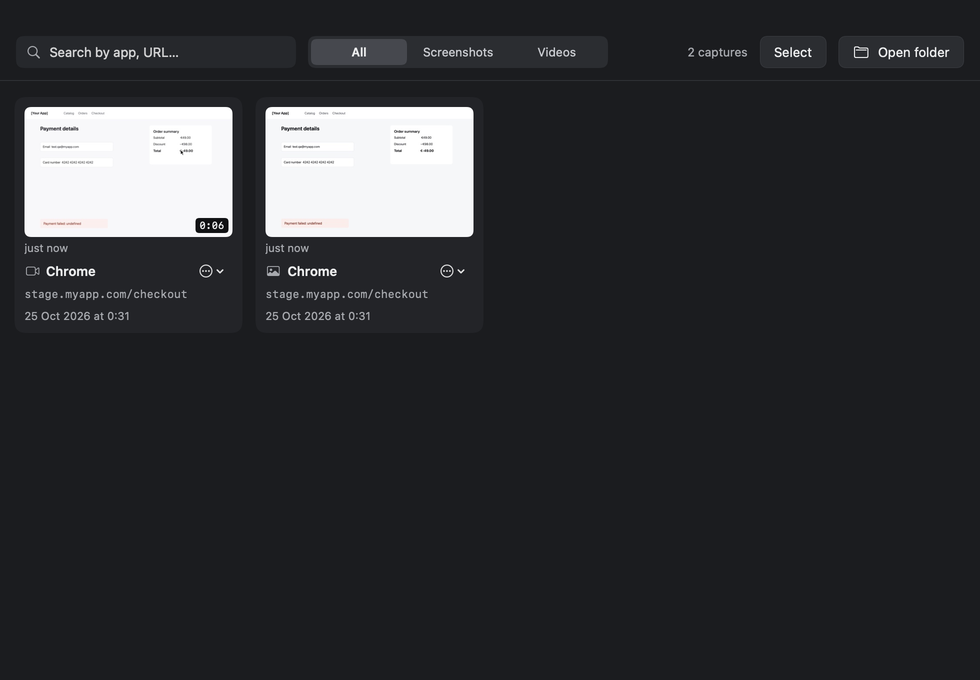
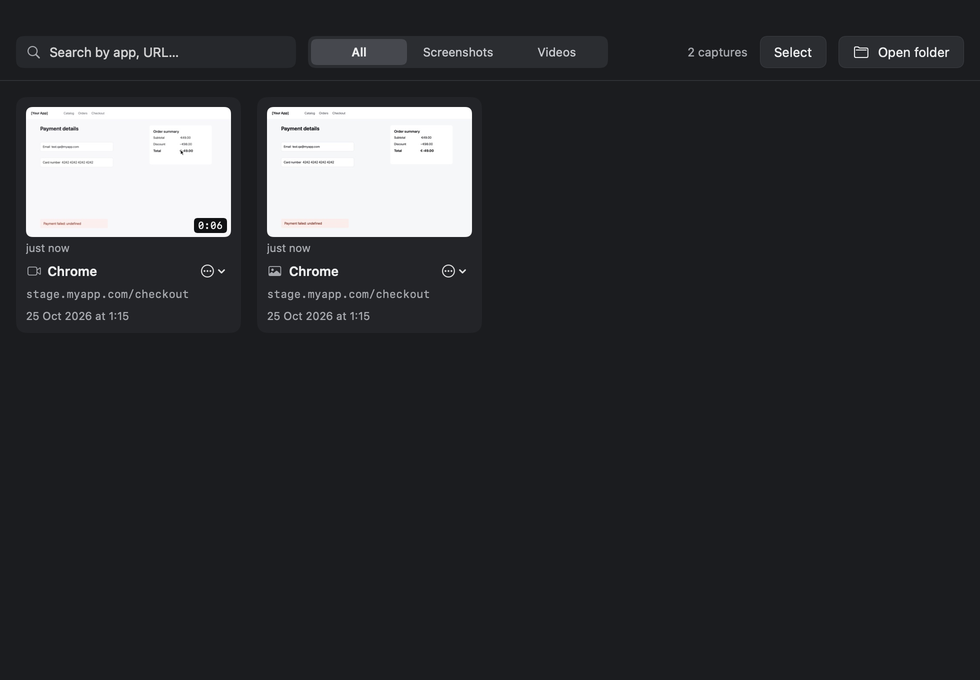
Tidy menu panel and settings; README on speed and clipboard
- Recent thumbnails stay inside their cells (wide captures pushed the grid
  past the panel's edge, cutting labels)
- The header drops the tagline while the update badge needs the room
- "Keep all displays" describes the per-display clips
- README: clipboard copy, frame rates, resource use

Changed region(s): [[0.2755, 0.3397, 0.4286, 0.4941], [0.0306, 0.3397, 0.1837, 0.4941], [0.1837, 0.3088, 0.2449, 0.3397]]

diff --git a/Sources/Bugbear/MenuBar/MenuBarView.swift b/Sources/Bugbear/MenuBar/MenuBarView.swift
@@ -124,9 +124,13 @@ struct MenuBarView: View {
                 .foregroundStyle(Theme.text)
             VStack(alignment: .leading, spacing: 1) {
                 Text("Bugbear").font(.system(size: 14, weight: .bold))
-                Text("Catch the bug that already happened")
-                    .font(.system(size: 11))
-                    .foregroundStyle(Theme.textSecondary)
+                // The update badge needs the room; the tagline comes back once updated.
+                if !Updater.shared.hasUpdate {
+                    Text("Catch the bug that already happened")
+                        .font(.system(size: 11))
+                        .foregroundStyle(Theme.textSecondary)
+                        .lineLimit(1)
+                }
             }
             Spacer()
             UpdateBadge()
@@ -695,11 +699,16 @@ struct CaptureThumbnail: View {
         VStack(alignment: .leading, spacing: 4) {
             ZStack(alignment: .bottomTrailing) {
                 if let image = app.store.thumbnail(for: capture) {
-                    Image(nsImage: image)
-                        .resizable()
-                        .aspectRatio(contentMode: .fill)
+                    // The cell sets the size and the picture fills it: an image sized by itself
+                    // made wide captures (two displays) push the grid past the panel's edge.
+                    Color.clear
                         .frame(maxWidth: .infinity)
                         .frame(height: height)
+                        .overlay {
+                            Image(nsImage: image)
+                                .resizable()
+                                .aspectRatio(contentMode: .fill)
+                        }
                         .clipped()
                 } else {
                     Rectangle().fill(Color(hex: 0x2E3136)).frame(height: height)

diff --git a/Sources/Bugbear/Settings/SettingsView.swift b/Sources/Bugbear/Settings/SettingsView.swift
@@ -47,7 +47,7 @@ struct SettingsView: View {
                         Text("1440p").tag(1440)
                         Text("Native").tag(0)
                     }
-                    Toggle("Record all displays (side by side)", isOn: $settings.captureAllDisplays)
+                    Toggle("Keep all displays (pick one or all side by side in the editor)", isOn: $settings.captureAllDisplays)
                     Toggle("Show the mouse pointer", isOn: $settings.showsCursor)
                     Toggle("Start the buffer when the app opens", isOn: $settings.startBufferOnLaunch)
                     if needsRestart {

diff --git a/Sources/Bugbear/Support/Updater.swift b/Sources/Bugbear/Support/Updater.swift
@@ -10,6 +10,11 @@ import BugbearCore
 final class Updater {
     static let shared = Updater()
 
+    var hasUpdate: Bool {
+        if case .available = state { return true }
+        return false
+    }
+
     enum State: Equatable {
         case idle
         case checking

diff --git a/README.md b/README.md
@@ -100,6 +100,9 @@ A bug you could not reproduce is already recorded: press `⌥⇧1` and it opens 
 The buffer is optional: choose it in the first-start guide, pause it from the menu bar, or turn it off in
 Settings → Buffer.
 
+- Light on the Mac: the buffer records at 15 fps (recordings switch to 30 fps without losing what the
+  buffer holds) and captures straight in the video encoder's format. With two displays the app uses
+  about 70 MB of memory and a few percent of one CPU core; saving 30 seconds takes about 0.1 s.
 - System audio and microphone are optional.
 - Clicks and shortcut keys are recorded alongside, so the editor can show them on the video.
   Plain typing is never stored as text; it shows up as "typing…".
@@ -160,6 +163,8 @@ all displays when more than one is connected.
 ### Screenshots and the screenshot editor
 
 - `⌥⇧4` area, `⌥⇧5` window, or all displays stitched into one image.
+- A new screenshot is on the clipboard right away, ready for `⌘V` in a chat or a ticket, and the
+  editor opens in about half a second. Settings → Screenshots turns the copying off.
 - **Scrolling screenshot**: pick an area; the app scrolls it and glues one long image.
   Sticky headers and footers appear once.
 - Editor: arrow, rectangle, ellipse, line, highlighter, pen, text, numbered steps, pixelate blur,
